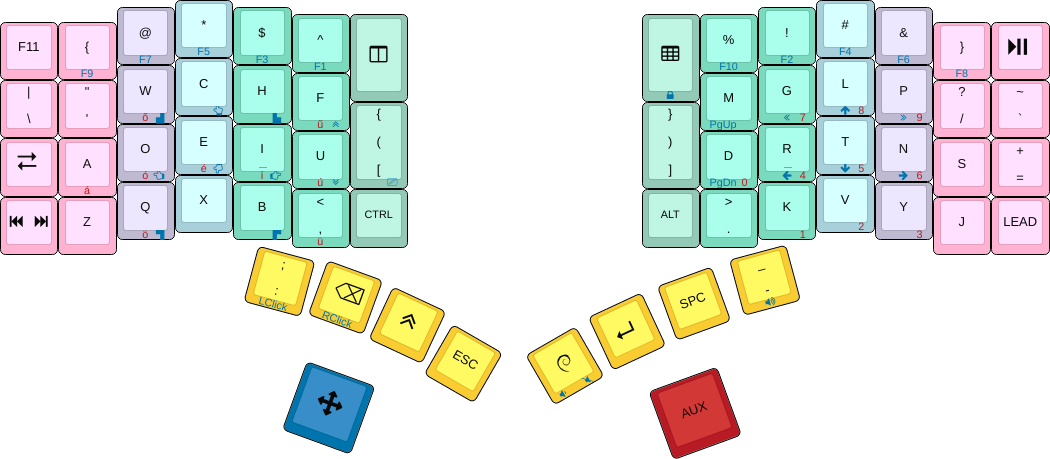
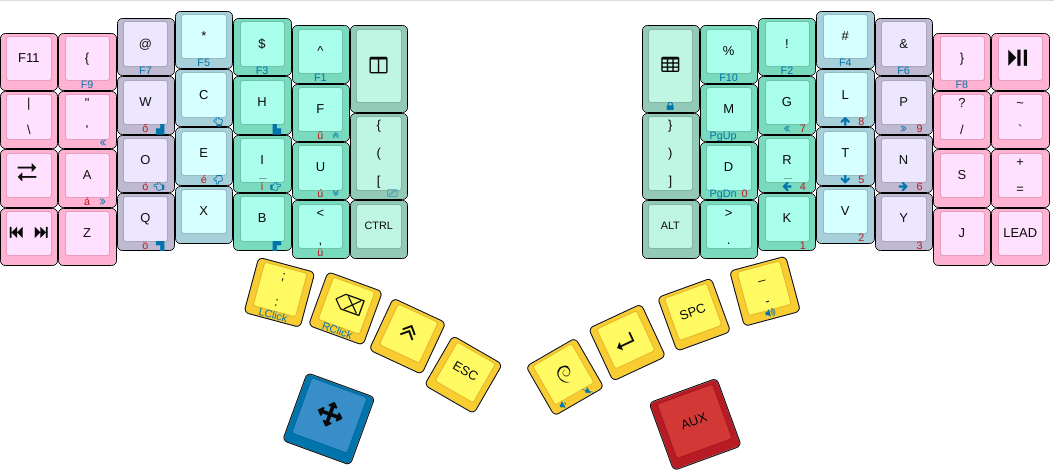
Add horizontal scroll mouse keys
Fixes #63.

diff --git a/src/keymap.h b/src/keymap.h
@@ -60,6 +60,8 @@ enum {
 
 #define MS_SUP MM(ScrollUp)
 #define MS_SDN MM(ScrollDn)
+#define MS_SL  MM(ScrollL)
+#define MS_SR  MM(ScrollR)
 
 #define Key_PlayPause Consumer_PlaySlashPause
 #define Key_LArrow Key_LeftArrow
@@ -112,8 +114,8 @@ const Key keymaps[][ROWS][COLS] PROGMEM = {
   [_NAV] = KEYMAP_STACKED
   (
     ___ ,Key_F9 ,Key_F7 ,Key_F5 ,Key_F3 ,Key_F1 ,XXX
-   ,XXX ,XXX    ,MW(NW) ,MM(Up) ,MW(NE) ,MS_SUP ,MW(End)
-   ,XXX ,XXX    ,MM(L)  ,MM(Dn) ,MM(R)  ,MS_SDN
+   ,XXX ,MS_SL  ,MW(NW) ,MM(Up) ,MW(NE) ,MS_SUP ,MW(End)
+   ,XXX ,MS_SR  ,MM(L)  ,MM(Dn) ,MM(R)  ,MS_SDN
    ,___ ,XXX    ,MW(SW) ,XXX    ,MW(SE) ,XXX    ,___
 
    ,MM(BtnL) ,MM(BtnR) ,___ ,___
